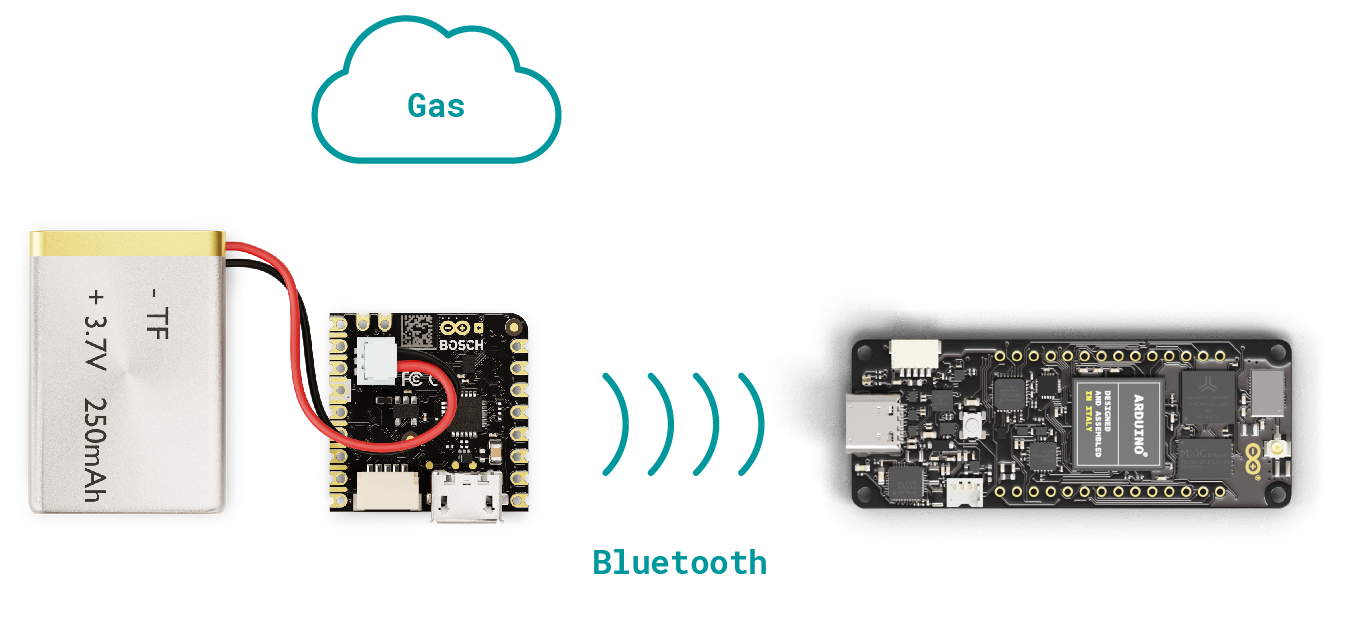
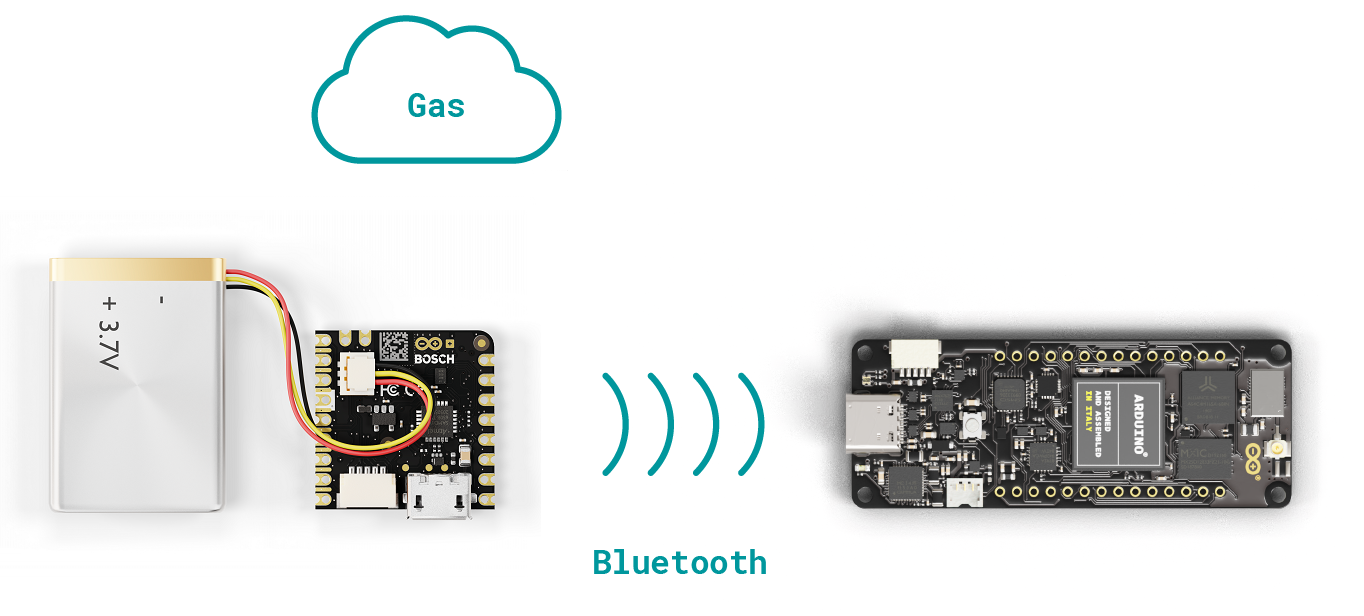
Add NTC Image & addition pins info

diff --git a/content/hardware/06.nicla/boards/nicla-sense-me/datasheet/datasheet.md b/content/hardware/06.nicla/boards/nicla-sense-me/datasheet/datasheet.md
@@ -103,6 +103,7 @@ The Nicla form factor has been specifically developed at Arduino® as a standard
 ### Assembly Overview
 ![Example of a typical solution for remote environmental sensing including an Arduino® Nicla Sense ME, Portenta H7 and battery. Notice the orientation of the battery's cable in the board's connector. ](assets/niclaSenseMEBattery.png)
 
+**Note** : The NTC pin on the battery connector is optional.
 
 ## Ratings
 ### Recommended Operating Conditions
@@ -213,7 +214,7 @@ All Arduino® boards have a built-in bootloader that allows flashing the board v
 ## Connector Pinouts
 **Note:** All the pins on J1 and J2 (excluding fins) are referenced to the V<sub>DDIO_EXT</sub> voltage which can be generated internally or supplied externally.
 
-### J1 Pin Connector
+### J1 Nicla Header A
 
 | Pin | **Function** | **Type** | **Description**                    |
 |-----|--------------|----------|------------------------------------|
@@ -226,7 +227,7 @@ All Arduino® boards have a built-in bootloader that allows flashing the board v
 | 7   | ADC2         | Analog   | Analog Input 2                     |
 | 8   | ADC1         | Analog   | Analog Input 1                     |
 
-### J2 Pin Header
+### J2 Nicla Header B
 
 | Pin | **Function** | **Type** | **Description**       |
 |-----|--------------|----------|-----------------------|
@@ -242,7 +243,7 @@ All Arduino® boards have a built-in bootloader that allows flashing the board v
 
 **Note:** For further information on how Low Power I/Os work, check [Nicla Family Form Factor](https://docs.arduino.cc/learn/hardware/nicla-form-factor) documentation.
 
-### J3 Fins
+### J2 Fins
 
 | Pin | **Function**  | **Type** | **Description**                     |
 |-----|---------------|----------|-------------------------------------|
@@ -257,6 +258,31 @@ All Arduino® boards have a built-in bootloader that allows flashing the board v
 
 **Note:** These test points can easily be accessed by inserting the board in a double row 1.27 mm/50 mil pitch male header.
 **Note 2:** All JTAG logic levels operate at 1.8V apart from the SAMD11 pins (P6 and P8) which are 3.3V. All these JTAG pins are 1.8V only and don't scale with VDDIO.
+
+### J3 Battery Pads
+
+| Pin | **Function** | **Type** | **Description** |
+|-----|--------------|----------|-----------------|
+| 1   | VBAT         | Power    | Battery input   |
+| 2   | NTC          | Analog   | NTC Thermistor  |
+
+### J4 Battery Connector
+
+| Pin | **Function** | **Type** | **Description** |
+|-----|--------------|----------|-----------------|
+| 1   | VBAT         | Power    | Battery input   |
+| 2   | NTC          | Analog   | NTC Thermistor  |
+| 3   | GND          | Power    | Ground          |
+
+### J5 ESLOV
+
+| Pin | **Function** | **Type** | **Description** |
+|-----|--------------|----------|-----------------|
+| 1   | 5V           | Power    | 5V Power Rail   |
+| 2   | INT          | Digital  | Digial IO       |
+| 3   | SCL          | Digital  | I2C Clock Linke |
+| 4   | SDA          | Digital  | I2C Data Line   |
+| 5   | GND          | Power    | Ground          |
 
 ## Mechanical Information
 ![](assets/niclaSenseMEMech.png)
@@ -351,11 +377,12 @@ Hereby, Arduino S.r.l. declares that this product is in compliance with essentia
 
 ## Revision History
 
-| **Date**   | **Revision** | **Changes**                    |
-|------------|--------------|--------------------------------|
-| 27-05-2021 | 01           | Initial Version                |
-| 20-07-2021 | 02           | Technical Revisions            |
-| 13-12-2022 | 03           | Change Solution Overview Image |
+| **Date**   | **Revision** | **Changes**                        |
+|------------|--------------|------------------------------------|
+| 27-05-2021 | 01           | Initial Version                    |
+| 20-07-2021 | 02           | Technical Revisions                |
+| 13-12-2022 | 03           | Change Solution Overview Image     |
+| 22-12-2022 | 04           | Add NTC Image & addition pins info |
 
 ## Product Warnings and Disclaimers
 
